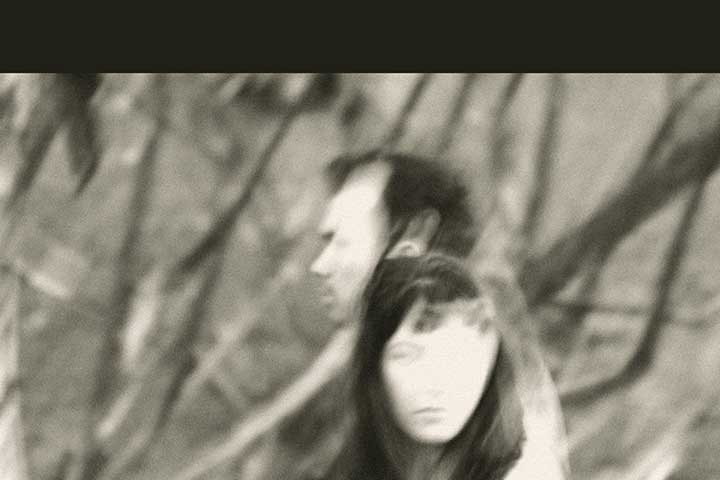
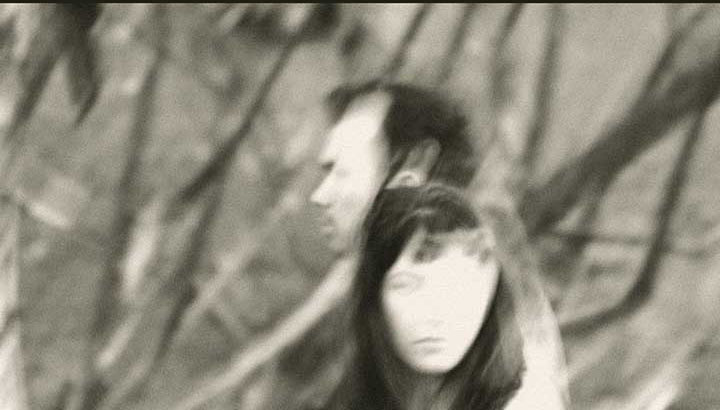
redo background math without brown top section

diff --git a/junglefires/dist/css/app.min.css b/junglefires/dist/css/app.min.css
@@ -1,2 +1,2 @@
-body,html{min-height:100%;height:100%;margin:0;overflow:hidden;position:relative}body{background:#202018;font-family:TimesNewRoman,"Times New Roman",Times,Baskerville,Georgia,serif;font-weight:400;-webkit-text-size-adjust:100%;-ms-text-size-adjust:100%;-webkit-font-smoothing:antialiased;-moz-osx-font-smoothing:grayscale}#app{min-height:100%;position:relative;visibility:hidden}.container{z-index:10}.loading{height:100%;width:100%;background:#202018;position:absolute;z-index:100;visibility:visible;opacity:1;-webkit-transition:all 2s cubic-bezier(.23,1,.32,1);-moz-transition:all 2s cubic-bezier(.23,1,.32,1);-ms-transition:all 2s cubic-bezier(.23,1,.32,1);-o-transition:all 2s cubic-bezier(.23,1,.32,1);transition:all 2s cubic-bezier(.23,1,.32,1)}.loading .loader-inner{top:50%;left:50%;margin-top:-15px;margin-left:-15px}.loading .ball-clip-rotate-pulse>div:first-child{background:#f5efd5}.loading .ball-clip-rotate-pulse>div:last-child{left:-15px;top:0;background-color:#f5efd5 transparent}.finishLoading #app{visibility:visible}.finishLoading .loading{visibility:hidden;opacity:0}.finishLoading .loading .loader-inner{display:none}a,a:active,a:focus,a:hover{text-decoration:none;color:auto}h1{display:block;position:relative;margin:0 auto;max-width:100%}h1>a{background:url(../images/junglefires-logo.png) no-repeat center center;background-size:100%;width:100%;min-height:115px!important;padding:0;display:block}nav{text-align:center}nav a{-webkit-transition:all .65s cubic-bezier(.23,1,.32,1);-moz-transition:all .65s cubic-bezier(.23,1,.32,1);-ms-transition:all .65s cubic-bezier(.23,1,.32,1);-o-transition:all .65s cubic-bezier(.23,1,.32,1);transition:all .65s cubic-bezier(.23,1,.32,1);color:#f5efd5;font-size:1.4rem;line-height:2rem;display:inline-block;padding:.25rem 0 0 0}nav a:after{padding:.5rem;content:'/'}nav a:last-child:after{content:''}nav a:active,nav a:hover{color:#f5efd5;opacity:.75}nav a:active{opacity:.5}nav a:visited{color:#f5efd5}img.bg{min-height:100%;min-width:1440px;width:100%;height:auto;position:fixed;top:0;left:0}@media screen and (max-width:1440px){img.bg{left:50%;margin-left:-720px}}@media (min-width:768px){h1{margin:6.5rem 0 0;padding:0;max-width:660px!important}nav{text-align:right;margin-top:10rem}nav a{font-size:1.8rem;padding:1rem 0 1rem .25rem}}.fullscreen-container{height:100%;width:100%;z-index:-1000;visibility:hidden;position:absolute;top:0;-webkit-transform:scale(1);-moz-transform:scale(1);-ms-transform:scale(1);-o-transform:scale(1);transform:scale(1)}.finishLoading .fullscreen-container{visibility:visible;-webkit-animation:pop-in .75s;-moz-animation:pop-in .75s;-ms-animation:pop-in .75s}@-webkit-keyframes pop-in{0%{opacity:0;-webkit-transform:scale(1.15)}100%{opacity:1;-webkit-transform:scale(1)}}@-moz-keyframes pop-in{0%{opacity:0;-moz-transform:scale(1.15)}100%{opacity:1;-moz-transform:scale(1)}}@keyframes pop-in{0%{opacity:0;transform:scale(1.15)}100%{opacity:1;transform:scale(1)}}#modal{position:absolute;left:0;width:100%;height:100%;top:0;visibility:hidden;z-index:100000;background:0 0;color:#f5efd5;opacity:0;-webkit-transition:all .65s cubic-bezier(.23,1,.32,1);-moz-transition:all .65s cubic-bezier(.23,1,.32,1);-ms-transition:all .65s cubic-bezier(.23,1,.32,1);-o-transition:all .65s cubic-bezier(.23,1,.32,1);transition:all .65s cubic-bezier(.23,1,.32,1);-webkit-transform:scale(1.25);-moz-transform:scale(1.25);-ms-transform:scale(1.25);-o-transform:scale(1.25);transform:scale(1.25)}#modal.reveal{visibility:visible;opacity:1;background:rgba(32,32,24,.95);-webkit-transform:scale(1);-moz-transform:scale(1);-ms-transform:scale(1);-o-transform:scale(1);transform:scale(1)}.modal-container{display:flex;align-items:center;justify-content:center;height:100%}.close-icon{color:#FFF;font-size:4rem;top:-4rem;left:0;position:absolute;width:100%;height:2rem;font-weight:100;text-align:center;-webkit-transition:all .25s cubic-bezier(.23,1,.32,1);-moz-transition:all .25s cubic-bezier(.23,1,.32,1);-ms-transition:all .25s cubic-bezier(.23,1,.32,1);-o-transition:all .25s cubic-bezier(.23,1,.32,1);transition:all .25s cubic-bezier(.23,1,.32,1)}.close-icon:active,.close-icon:hover,.close-icon:visited{color:#FFF;opacity:.25}.biography{max-width:400px;padding:2rem;position:relative}.biography p{font-size:1.6rem;font-weight:400;letter-spacing:1px;font-style:italic;text-align:center}@media (min-width:768px){.close-icon{font-size:4rem;right:-16rem;left:auto;top:-4rem;height:2rem;text-align:center}.biography p{text-align:left;font-size:1.8rem}}
+body,html{min-height:100%;height:100%;margin:0;overflow:hidden;position:relative}body{background:#202018;font-family:TimesNewRoman,"Times New Roman",Times,Baskerville,Georgia,serif;font-weight:400;-webkit-text-size-adjust:100%;-ms-text-size-adjust:100%;-webkit-font-smoothing:antialiased;-moz-osx-font-smoothing:grayscale}#app{min-height:100%;position:relative;visibility:hidden}.container{z-index:10}.loading{height:100%;width:100%;background:#202018;position:absolute;z-index:100;visibility:visible;opacity:1;-webkit-transition:all 2s cubic-bezier(.23,1,.32,1);-moz-transition:all 2s cubic-bezier(.23,1,.32,1);-ms-transition:all 2s cubic-bezier(.23,1,.32,1);-o-transition:all 2s cubic-bezier(.23,1,.32,1);transition:all 2s cubic-bezier(.23,1,.32,1)}.loading .loader-inner{top:50%;left:50%;margin-top:-15px;margin-left:-15px}.loading .ball-clip-rotate-pulse>div:first-child{background:#f5efd5}.loading .ball-clip-rotate-pulse>div:last-child{left:-15px;top:0;background-color:#f5efd5 transparent}.finishLoading #app{visibility:visible}.finishLoading .loading{visibility:hidden;opacity:0}.finishLoading .loading .loader-inner{display:none}a,a:active,a:focus,a:hover{text-decoration:none;color:auto}h1{display:block;position:relative;margin:0 auto;max-width:100%}h1>a{background:url(../images/junglefires-logo.png) no-repeat center center;background-size:100%;width:100%;min-height:115px!important;padding:0;display:block}nav{text-align:center}nav a{-webkit-transition:all .65s cubic-bezier(.23,1,.32,1);-moz-transition:all .65s cubic-bezier(.23,1,.32,1);-ms-transition:all .65s cubic-bezier(.23,1,.32,1);-o-transition:all .65s cubic-bezier(.23,1,.32,1);transition:all .65s cubic-bezier(.23,1,.32,1);color:#f5efd5;font-size:1.4rem;line-height:2rem;display:inline-block;padding:.25rem 0 0 0}nav a:after{padding:.5rem;content:'/'}nav a:last-child:after{content:''}nav a:active,nav a:hover{color:#f5efd5;opacity:.75}nav a:active{opacity:.5}nav a:visited{color:#f5efd5}img.bg{min-height:100%;min-width:1440px;width:100%;height:auto;position:fixed;top:0;left:0}@media screen and (max-width:1440px){img.bg{left:50%;margin-left:-720px}}@media (min-width:768px){h1{margin:6.5rem 0 0;padding:0;max-width:660px!important}nav{text-align:right;margin-top:10rem}nav a{font-size:1.8rem;padding:1rem 0 1rem .25rem}}.fullscreen-container{height:100%;width:100%;z-index:-1000;visibility:hidden;position:absolute;top:145px;-webkit-transform:scale(1);-moz-transform:scale(1);-ms-transform:scale(1);-o-transform:scale(1);transform:scale(1)}.finishLoading .fullscreen-container{visibility:visible;-webkit-animation:pop-in .75s;-moz-animation:pop-in .75s;-ms-animation:pop-in .75s}@-webkit-keyframes pop-in{0%{opacity:0;-webkit-transform:scale(1.15)}100%{opacity:1;-webkit-transform:scale(1)}}@-moz-keyframes pop-in{0%{opacity:0;-moz-transform:scale(1.15)}100%{opacity:1;-moz-transform:scale(1)}}@keyframes pop-in{0%{opacity:0;transform:scale(1.15)}100%{opacity:1;transform:scale(1)}}#modal{position:absolute;left:0;width:100%;height:100%;top:0;visibility:hidden;z-index:100000;background:0 0;color:#f5efd5;opacity:0;-webkit-transition:all .65s cubic-bezier(.23,1,.32,1);-moz-transition:all .65s cubic-bezier(.23,1,.32,1);-ms-transition:all .65s cubic-bezier(.23,1,.32,1);-o-transition:all .65s cubic-bezier(.23,1,.32,1);transition:all .65s cubic-bezier(.23,1,.32,1);-webkit-transform:scale(1.25);-moz-transform:scale(1.25);-ms-transform:scale(1.25);-o-transform:scale(1.25);transform:scale(1.25)}#modal.reveal{visibility:visible;opacity:1;background:rgba(32,32,24,.95);-webkit-transform:scale(1);-moz-transform:scale(1);-ms-transform:scale(1);-o-transform:scale(1);transform:scale(1)}.modal-container{display:flex;align-items:center;justify-content:center;height:100%}.close-icon{color:#FFF;font-size:4rem;top:-4rem;left:0;position:absolute;width:100%;height:2rem;font-weight:100;text-align:center;-webkit-transition:all .25s cubic-bezier(.23,1,.32,1);-moz-transition:all .25s cubic-bezier(.23,1,.32,1);-ms-transition:all .25s cubic-bezier(.23,1,.32,1);-o-transition:all .25s cubic-bezier(.23,1,.32,1);transition:all .25s cubic-bezier(.23,1,.32,1)}.close-icon:active,.close-icon:hover,.close-icon:visited{color:#FFF;opacity:.25}.biography{max-width:400px;padding:2rem;position:relative}.biography p{font-size:1.6rem;font-weight:400;letter-spacing:1px;font-style:italic;text-align:center}@media (min-width:768px){.close-icon{font-size:4rem;right:-16rem;left:auto;top:-4rem;height:2rem;text-align:center}.biography p{text-align:left;font-size:1.8rem}}
 /*# sourceMappingURL=app.min.css.map */

diff --git a/junglefires/app/sass/screens/_home.scss b/junglefires/app/sass/screens/_home.scss
@@ -48,25 +48,25 @@ nav {
 
 
 img.bg {
-  /* Set rules to fill background */
-  min-height: 100%;
-  min-width: 1440px;
+	/* Set rules to fill background */
+	min-height: 100%;
+
+	min-width: 1440px;
+	/* Set up proportionate scaling */
+	width: 100%;
+	height: auto;
 	
-  /* Set up proportionate scaling */
-  width: 100%;
-  height: auto;
-	
-  /* Set up positioning */
-  position: fixed;
-  top: 0;
-  left: 0;
+	/* Set up positioning */
+	position: fixed;
+	top: 0;
+	left: 0;
 }
 
 @media screen and (max-width: 1440px) { /* Specific to this particular image */
-  img.bg {
-    left: 50%;
-    margin-left: -720px;   /* 50% */
-  }
+	img.bg {
+		left: 50%;
+		margin-left: -720px;   /* 50% */
+	}
 }
 
 @media (min-width:768px){
@@ -90,12 +90,13 @@ img.bg {
 	height: 100%;
 	width: 100%;
 	position: relative;
-    z-index: -1000;
-    visibility: hidden;
-    position: absolute;
-    top: 0;
+	z-index: -1000;
+	visibility: hidden;
+	position: absolute;
+	top: 145px;
 	@include custom-transform(scale(1));
 }
+
 .finishLoading .fullscreen-container {
 	visibility: visible;
 	-webkit-animation: pop-in 0.75s;
@@ -104,14 +105,14 @@ img.bg {
 }
 
 @-webkit-keyframes pop-in {
-0% { opacity: 0; -webkit-transform: scale(1.15); }
-100% { opacity: 1; -webkit-transform: scale(1); }
+	0% { opacity: 0; -webkit-transform: scale(1.15); }
+	100% { opacity: 1; -webkit-transform: scale(1); }
 }
 @-moz-keyframes pop-in {
-0% { opacity: 0; -moz-transform: scale(1.15); }
-100% { opacity: 1; -moz-transform: scale(1); }
+	0% { opacity: 0; -moz-transform: scale(1.15); }
+	100% { opacity: 1; -moz-transform: scale(1); }
 }
 @keyframes pop-in {
-0% { opacity: 0; transform: scale(1.15); }
-100% { opacity: 1; transform: scale(1); }
+	0% { opacity: 0; transform: scale(1.15); }
+	100% { opacity: 1; transform: scale(1); }
 }

diff --git a/junglefires/gulpfile.js b/junglefires/gulpfile.js
@@ -172,7 +172,12 @@ gulp.task('serve', ['scripts','templates','styles','images'], function () {
 
 // Watch
 gulp.task('watch', ['connect'], function () {
-
+    
+    gulp.watch(configPaths.app + '**/*.*', function (event) {
+        return gulp.src(event.path)
+            .pipe(connect.reload());
+    });
+    
     // Watch .scss files
     gulp.watch(configPaths.app + 'sass/**/*.scss', ['styles']);
 
@@ -187,11 +192,6 @@ gulp.task('watch', ['connect'], function () {
 
     // Watch vendor folder
     gulp.watch(configPaths.bower, ['styles', 'scripts']);
-
-    gulp.watch(configPaths.app + '**/*.*', function (event) {
-        return gulp.src(event.path)
-            .pipe(connect.reload());
-    });
 });
 
 //Build all
